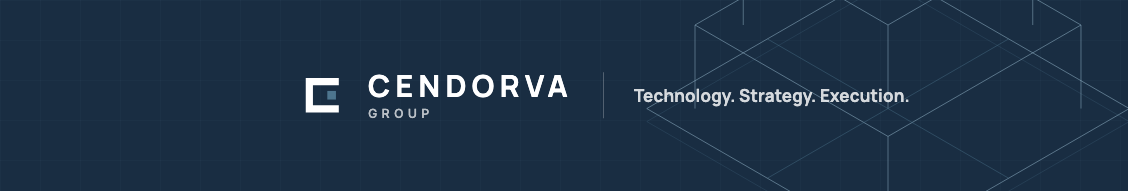
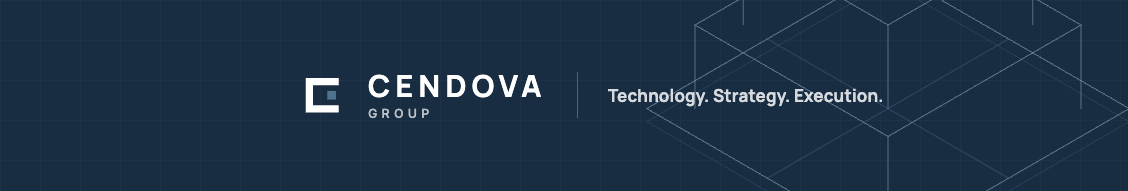
Rename Cendorva Group to Cendova Group and fix hero graphic
Rename the company across the site copy, metadata, logo SVGs, LinkedIn
brand templates and regenerated PNGs, package name, README and
render.yaml service name.

Fix the home hero drawing: lower the isometric origin so the top plate
and ground shadow fit inside the viewBox, join the left dimension ticks
to one rule that spans the plate levels and keep it clear of the ground
plate's corner, and size the graphic to its column (right-anchored,
capped at 640px) so the base no longer runs off the right edge at
1440px and narrower.

generate.mjs now accepts PLAYWRIGHT_CHANNEL=chrome to render the
LinkedIn assets with an installed Google Chrome via playwright-core.

Changed region(s): [[0.4344, 0.3927, 0.8067, 0.5759]]

diff --git a/src/components/HeroGraphic.tsx b/src/components/HeroGraphic.tsx
@@ -1,28 +1,38 @@
 /**
- * Abstract architectural drawing: three isometric floor plates, columns
+ * Abstract architectural drawing: four isometric floor plates, columns
  * between them, and a fine construction grid. Thin steel-blue lines on navy.
+ *
+ * The drawing origin sits low enough that the top plate (z = 270, half-width
+ * 60) and the ground shadow (z = -14) both fit inside the viewBox, and the
+ * dimension rule on the left is kept clear of the ground plate's corner.
  */
-export function HeroGraphic({ className = "" }: { className?: string }) {
-  // Isometric helpers: x axis goes right-down, y axis goes right-up.
-  const iso = (x: number, y: number, z: number) => {
-    const px = 300 + (x - y) * 0.866 * 1;
-    const py = 300 + (x + y) * 0.5 - z;
-    return `${px.toFixed(1)},${py.toFixed(1)}`;
-  };
-  const plate = (z: number, s: number, ox = 0, oy = 0) =>
-    [
-      iso(ox - s, oy - s, z),
-      iso(ox + s, oy - s, z),
-      iso(ox + s, oy + s, z),
-      iso(ox - s, oy + s, z),
-    ].join(" ");
+const ORIGIN_X = 300;
+const ORIGIN_Y = 340;
 
-  const levels = [
-    { z: 0, s: 150 },
-    { z: 90, s: 120 },
-    { z: 180, s: 90 },
-    { z: 270, s: 60 },
-  ];
+const levels = [
+  { z: 0, s: 150 },
+  { z: 90, s: 120 },
+  { z: 180, s: 90 },
+  { z: 270, s: 60 },
+];
+
+// Isometric projection: x axis goes right-down, y axis goes right-up.
+const iso = (x: number, y: number, z: number): [number, number] => [
+  ORIGIN_X + (x - y) * 0.866,
+  ORIGIN_Y + (x + y) * 0.5 - z,
+];
+const pt = ([x, y]: [number, number]) => `${x.toFixed(1)},${y.toFixed(1)}`;
+const plate = (z: number, s: number) =>
+  [iso(-s, -s, z), iso(s, -s, z), iso(s, s, z), iso(-s, s, z)].map(pt).join(" ");
+
+const RULE_X = 18;
+const TICK_HALF = 6;
+
+export function HeroGraphic({ className = "" }: { className?: string }) {
+  const [apexX, apexY] = iso(0, 0, levels[levels.length - 1].z);
+  const tickYs = levels.map((l) => ORIGIN_Y - l.z + 0.5);
+  const ruleTop = Math.min(...tickYs);
+  const ruleBottom = Math.max(...tickYs);
 
   return (
     <svg
@@ -56,63 +66,64 @@ export function HeroGraphic({ className = "" }: { className?: string }) {
           [1, 1],
           [-1, 1],
         ];
-        return corners.map(([cx, cy], j) => (
-          <line
-            key={`${i}-${j}`}
-            x1={iso(cx * next.s, cy * next.s, lvl.z).split(",")[0]}
-            y1={iso(cx * next.s, cy * next.s, lvl.z).split(",")[1]}
-            x2={iso(cx * next.s, cy * next.s, next.z).split(",")[0]}
-            y2={iso(cx * next.s, cy * next.s, next.z).split(",")[1]}
-            stroke="#8FB0C4"
-            strokeOpacity={0.55}
-            strokeWidth="1"
-          />
-        ));
+        return corners.map(([cx, cy], j) => {
+          const [x1, y1] = iso(cx * next.s, cy * next.s, lvl.z);
+          const [x2, y2] = iso(cx * next.s, cy * next.s, next.z);
+          return (
+            <line
+              key={`${i}-${j}`}
+              x1={x1.toFixed(1)}
+              y1={y1.toFixed(1)}
+              x2={x2.toFixed(1)}
+              y2={y2.toFixed(1)}
+              stroke="#8FB0C4"
+              strokeOpacity={0.55}
+              strokeWidth="1"
+            />
+          );
+        });
       })}
 
       {/* Floor plates */}
-      {levels.map((lvl, i) => (
-        <polygon
-          key={i}
-          points={plate(lvl.z, lvl.s)}
-          stroke={i === levels.length - 1 ? "#FFFFFF" : "#8FB0C4"}
-          strokeOpacity={i === levels.length - 1 ? 0.9 : 0.6}
-          strokeWidth={i === levels.length - 1 ? 1.5 : 1}
-          fill={i === levels.length - 1 ? "#4D758E" : "none"}
-          fillOpacity={i === levels.length - 1 ? 0.18 : 0}
-        />
-      ))}
+      {levels.map((lvl, i) => {
+        const top = i === levels.length - 1;
+        return (
+          <polygon
+            key={i}
+            points={plate(lvl.z, lvl.s)}
+            stroke={top ? "#FFFFFF" : "#8FB0C4"}
+            strokeOpacity={top ? 0.9 : 0.6}
+            strokeWidth={top ? 1.5 : 1}
+            fill={top ? "#4D758E" : "none"}
+            fillOpacity={top ? 0.18 : 0}
+          />
+        );
+      })}
 
       {/* Inner subdivision on the ground plate */}
       <polyline
-        points={`${iso(-150, 0, 0)} ${iso(150, 0, 0)}`}
+        points={`${pt(iso(-150, 0, 0))} ${pt(iso(150, 0, 0))}`}
         stroke="#4D758E"
         strokeOpacity="0.45"
         strokeWidth="1"
       />
       <polyline
-        points={`${iso(0, -150, 0)} ${iso(0, 150, 0)}`}
+        points={`${pt(iso(0, -150, 0))} ${pt(iso(0, 150, 0))}`}
         stroke="#4D758E"
         strokeOpacity="0.45"
         strokeWidth="1"
       />
 
-      {/* Dimension ticks on the left edge */}
-      {levels.map((lvl, i) => (
-        <g key={`tick-${i}`} stroke="#8FB0C4" strokeOpacity="0.5" strokeWidth="1">
-          <line x1="40" y1={300 - lvl.z + 150 * 0.5 * 2 - 150 + 0.5} x2="52" y2={300 - lvl.z + 150 * 0.5 * 2 - 150 + 0.5} />
-        </g>
-      ))}
-      <line x1="46" y1="150" x2="46" y2="450" stroke="#8FB0C4" strokeOpacity="0.5" strokeWidth="1" />
+      {/* Dimension rule on the left: one tick per plate level, joined by a rule */}
+      <g stroke="#8FB0C4" strokeOpacity="0.5" strokeWidth="1">
+        <line x1={RULE_X} y1={ruleTop} x2={RULE_X} y2={ruleBottom} />
+        {tickYs.map((y, i) => (
+          <line key={`tick-${i}`} x1={RULE_X - TICK_HALF} y1={y} x2={RULE_X + TICK_HALF} y2={y} />
+        ))}
+      </g>
 
       {/* The one accent: a steel square marking the top plate */}
-      <rect
-        x={Number(iso(0, 0, 270).split(",")[0]) - 5}
-        y={Number(iso(0, 0, 270).split(",")[1]) - 5}
-        width="10"
-        height="10"
-        fill="#4D758E"
-      />
+      <rect x={(apexX - 5).toFixed(1)} y={(apexY - 5).toFixed(1)} width="10" height="10" fill="#4D758E" />
 
       <rect x="0" y="470" width="600" height="90" fill="url(#fade)" />
     </svg>

diff --git a/src/app/about/page.tsx b/src/app/about/page.tsx
@@ -11,7 +11,7 @@ import { capabilities, principles } from "@/lib/content";
 export const metadata: Metadata = {
   title: "About Us",
   description:
-    "Cendorva Group is an independent technology and enterprise solutions firm that connects strategy with practical execution for organizations facing complex decisions.",
+    "Cendova Group is an independent technology and enterprise solutions firm that connects strategy with practical execution for organizations facing complex decisions.",
   alternates: { canonical: "/about/" },
 };
 
@@ -38,9 +38,9 @@ export default function AboutPage() {
   return (
     <>
       <PageHero
-        eyebrow="About Cendorva Group"
+        eyebrow="About Cendova Group"
         title="Independent Perspective. Integrated Expertise."
-        lede="Cendorva Group helps organizations connect strategy with practical execution. We combine technology advisory, enterprise solutions, project development, and strategic consulting so that decisions, designs, and delivery are handled as one piece of work rather than three."
+        lede="Cendova Group helps organizations connect strategy with practical execution. We combine technology advisory, enterprise solutions, project development, and strategic consulting so that decisions, designs, and delivery are handled as one piece of work rather than three."
       />
 
       {/* Philosophy */}
@@ -59,7 +59,7 @@ export default function AboutPage() {
                 erodes.
               </p>
               <p>
-                Cendorva Group was established to work in that gap. We take on
+                Cendova Group was established to work in that gap. We take on
                 the questions that sit between leadership intent and technical
                 reality: whether an investment is worth making, how a platform
                 should be structured, how a program should be sequenced, and
@@ -152,7 +152,7 @@ export default function AboutPage() {
 
       <CTA
         title="Talk With Us About What You're Working On."
-        body="An initial conversation is the fastest way to find out whether and how Cendorva Group can help."
+        body="An initial conversation is the fastest way to find out whether and how Cendova Group can help."
       />
     </>
   );

diff --git a/src/components/Footer.tsx b/src/components/Footer.tsx
@@ -11,7 +11,7 @@ export function Footer() {
       <Container>
         <div className="grid gap-12 py-16 md:grid-cols-12 md:gap-8 lg:py-20">
           <div className="md:col-span-5">
-            <Link href="/" aria-label="Cendorva Group, home" className="inline-block rounded-sm">
+            <Link href="/" aria-label="Cendova Group, home" className="inline-block rounded-sm">
               <Wordmark tone="light" />
             </Link>
             <p className="mt-6 max-w-sm text-[15px] leading-relaxed text-white/70">
@@ -59,7 +59,7 @@ export function Footer() {
 
         <div className="flex flex-col gap-4 border-t border-white/15 py-7 text-[13px] text-white/55 md:flex-row md:items-center md:justify-between">
           <p>
-            &copy; <Year /> Cendorva Group. All rights reserved.
+            &copy; <Year /> Cendova Group. All rights reserved.
           </p>
           <div className="flex gap-6">
             <Link href="/privacy" className="transition-colors hover:text-white">

diff --git a/src/app/page.tsx b/src/app/page.tsx
@@ -38,7 +38,7 @@ export default function Home() {
             </div>
             <div className="lg:col-span-5 lg:col-start-8">
               <p className="text-lg leading-relaxed text-slate">
-                Cendorva Group brings together strategic thinking, technical
+                Cendova Group brings together strategic thinking, technical
                 understanding, and structured project delivery to help
                 organizations address operational challenges and pursue new
                 opportunities.
@@ -52,7 +52,7 @@ export default function Home() {
                 href="/about"
                 className="mt-8 inline-flex items-center gap-2 text-[15px] font-medium text-navy hover:text-steel"
               >
-                About Cendorva Group
+                About Cendova Group
                 <ArrowRight size={16} aria-hidden="true" />
               </Link>
             </div>

diff --git a/src/app/privacy/page.tsx b/src/app/privacy/page.tsx
@@ -4,7 +4,7 @@ import { PageHero } from "@/components/PageHero";
 
 export const metadata: Metadata = {
   title: "Privacy Policy",
-  description: "How Cendorva Group handles information submitted through this website.",
+  description: "How Cendova Group handles information submitted through this website.",
   alternates: { canonical: "/privacy/" },
   robots: { index: false, follow: true },
 };
@@ -15,7 +15,7 @@ export default function PrivacyPage() {
       <PageHero
         eyebrow="Legal"
         title="Privacy Policy"
-        lede="This page describes what information this website collects and how it is used. It applies to the Cendorva Group website only."
+        lede="This page describes what information this website collects and how it is used. It applies to the Cendova Group website only."
       />
       <section className="py-20 lg:py-28">
         <Container>

diff --git a/src/components/Logo.tsx b/src/components/Logo.tsx
@@ -48,7 +48,7 @@ export function Wordmark({ tone = "dark" }: { tone?: Tone }) {
           className={`font-display text-[17px] font-bold tracking-[0.18em] ${primary}`}
           style={{ letterSpacing: "0.18em" }}
         >
-          CENDORVA
+          CENDOVA
         </span>
         <span
           className={`mt-1 text-[9px] font-medium ${secondary}`}
@@ -65,7 +65,7 @@ export function Logo({ tone = "dark" }: { tone?: Tone }) {
   return (
     <Link
       href="/"
-      aria-label="Cendorva Group, home"
+      aria-label="Cendova Group, home"
       className="inline-flex items-center rounded-sm"
     >
       <Wordmark tone={tone} />

diff --git a/src/lib/site.ts b/src/lib/site.ts
@@ -1,8 +1,8 @@
 export const site = {
-  name: "Cendorva Group",
+  name: "Cendova Group",
   tagline: "Technology. Strategy. Execution.",
   description:
-    "Cendorva Group is an independent technology and enterprise solutions firm helping organizations navigate complex technology decisions, develop enterprise solutions, and execute strategic initiatives.",
+    "Cendova Group is an independent technology and enterprise solutions firm helping organizations navigate complex technology decisions, develop enterprise solutions, and execute strategic initiatives.",
   url: process.env.NEXT_PUBLIC_SITE_URL ?? "http://localhost:3000",
 };
 

diff --git a/src/app/industries/page.tsx b/src/app/industries/page.tsx
@@ -9,7 +9,7 @@ import { industries } from "@/lib/content";
 export const metadata: Metadata = {
   title: "Industries",
   description:
-    "Cendorva Group supports organizations in financial services, healthcare and life sciences, manufacturing, logistics, technology, and professional services with technology and strategic advisory.",
+    "Cendova Group supports organizations in financial services, healthcare and life sciences, manufacturing, logistics, technology, and professional services with technology and strategic advisory.",
   alternates: { canonical: "/industries/" },
 };
 

diff --git a/src/app/capabilities/page.tsx b/src/app/capabilities/page.tsx
@@ -11,7 +11,7 @@ import { capabilities } from "@/lib/content";
 export const metadata: Metadata = {
   title: "Capabilities",
   description:
-    "Technology advisory, enterprise solutions, project development, and strategic consulting from Cendorva Group: what each covers, the challenges addressed, and what engagements deliver.",
+    "Technology advisory, enterprise solutions, project development, and strategic consulting from Cendova Group: what each covers, the challenges addressed, and what engagements deliver.",
   alternates: { canonical: "/capabilities/" },
 };
 

diff --git a/src/components/CTA.tsx b/src/components/CTA.tsx
@@ -4,7 +4,7 @@ import { Reveal } from "./Reveal";
 
 export function CTA({
   title = "Let’s Move Your Next Initiative Forward.",
-  body = "Whether you’re evaluating a technology investment, planning a transformation, or developing a new project, Cendorva Group can help you explore the path forward.",
+  body = "Whether you’re evaluating a technology investment, planning a transformation, or developing a new project, Cendova Group can help you explore the path forward.",
   label = "Start a Conversation",
 }: {
   title?: string;

diff --git a/src/components/HomeHero.tsx b/src/components/HomeHero.tsx
@@ -67,7 +67,7 @@ export function HomeHero() {
                   transition: { duration: 1.4, delay: 0.3, ease },
                 })}
           >
-            <HeroGraphic className="mx-auto w-full max-w-[520px] lg:absolute lg:left-0 lg:top-1/2 lg:max-w-none lg:w-[640px] lg:-translate-y-1/2" />
+            <HeroGraphic className="mx-auto w-full max-w-[520px] lg:absolute lg:right-0 lg:top-1/2 lg:w-[calc(100%+120px)] lg:max-w-[640px] lg:-translate-y-1/2" />
           </motion.div>
         </div>
       </Container>

diff --git a/src/app/approach/page.tsx b/src/app/approach/page.tsx
@@ -9,7 +9,7 @@ import { process } from "@/lib/content";
 export const metadata: Metadata = {
   title: "Our Approach",
   description:
-    "Cendorva Group's four-stage engagement method: Discover, Assess, Design, and Deliver. How we move from understanding an organization to supporting execution.",
+    "Cendova Group's four-stage engagement method: Discover, Assess, Design, and Deliver. How we move from understanding an organization to supporting execution.",
   alternates: { canonical: "/approach/" },
 };
 
